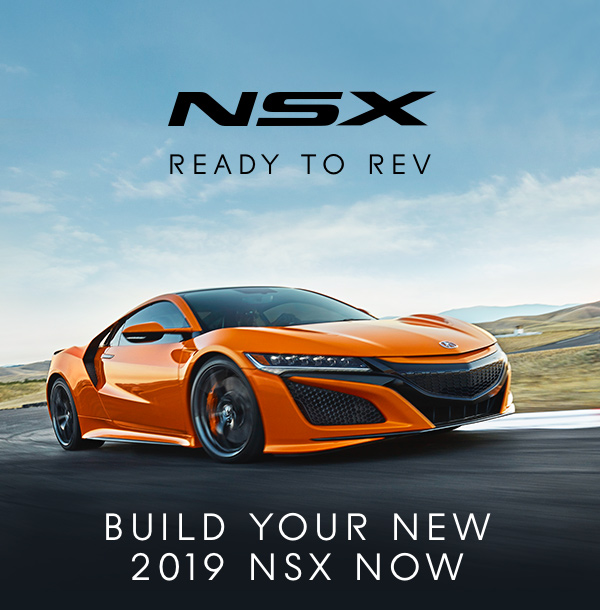
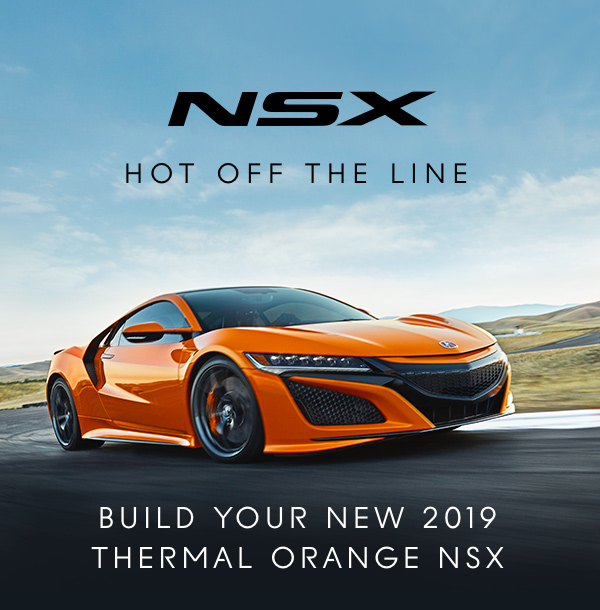
NSX #2 Email complete.

Changed region(s): [[0.15, 0.8098, 0.84, 0.9656], [0.51, 0.2492, 0.78, 0.3115], [0.21, 0.2492, 0.48, 0.3115]]

diff --git a/review.web/Content/Review/2019-nsx-02_assets.html b/review.web/Content/Review/2019-nsx-02_assets.html
@@ -4,7 +4,7 @@
     <meta http-equiv="Content-Type" content="text/html; charset=UTF-8"/>
     <meta name="viewport" content="width=device-width, maximum-scale=1, minimum-scale=1, user-scalable=no" />
     <meta name="x-apple-disable-message-reformatting" />
-    <title></title>
+    <title>Get Yours Hot: The New Acura NSX Is Here.</title>
     <style type="text/css">
       .ReadMsgBody{ width: 100%;}
       .ExternalClass {width: 100%;}
@@ -111,7 +111,7 @@
     <![endif]-->
   </head>
 <body bgcolor="#f2f2f2" style="padding:0;margin:0;-webkit-text-size-adjust:none; background-color:#f2f2f2;">
-<div style="display:none;visibility:hidden !important;mso-hide:all;font-size:1px;color:#ffffff;line-height:1px;max-height:0px;max-width:0px;opacity:0;overflow:hidden !important;"> </div>
+<div style="display:none;visibility:hidden !important;mso-hide:all;font-size:1px;color:#ffffff;line-height:1px;max-height:0px;max-width:0px;opacity:0;overflow:hidden !important;">The 2019 NSX is available for order in new Thermal Orange. </div>
 
 <table width="100%" cellpadding="0" cellspacing="0" border="0" align="center" bgcolor="#f2f2f2" style="min-width:600px !important;">
   <tr><td align="center" valign="top">
@@ -125,7 +125,7 @@
               <a target="_blank" href="https://www.acura.com/?SP_RID=%%RECIPIENT_ID%%&SP_MID=%%MAILING_ID%%&PROGRAMID=%%PROGID%%&CAMPAIGNCODE=%%CAMPAIGNCODE%%&OFFERCODE=%%OFFERCODE%%&CELLCODE=%%CELL%%&PID=%%PID%%&LINKNAME=%%LINK_NAME%%&CID=%%CID%%" style="margin:0;padding:0; border:none;text-decoration:none;text-align:center;font-size:36px;color:#ffffff;display:block;"><img style="margin:0 auto;padding:0;border:none !important;outline:none !important;display:block;text-align:center;color:white;background-color:black; font-family:'HelveticaNeue', 'Helvetica Neue', 'Helvetica Neue', Helvetica, Arial, 'Lucida Grande', sans-serif;line-height:80px; max-width: 600px; width: 100%;" alt="ACURA | " width="301" height="85" src="2019-nsx-02_assets/header-acura-logo-white.png" /></a>
             </td>
             <td width="299">
-              <a target="_blank" href="https://nsx.acura.com/explore/nsx/?SP_RID=%%RECIPIENT_ID%%&SP_MID=%%MAILING_ID%%&PROGRAMID=%%PROGID%%&CAMPAIGNCODE=%%CAMPAIGNCODE%%&OFFERCODE=%%OFFERCODE%%&CELLCODE=%%CELL%%&PID=%%PID%%&LINKNAME=%%LINK_NAME%%&CID=%%CID%%" style="margin:0;padding:0; border:none;text-decoration:none;text-align:center;font-size:36px;color:#ffffff;display:block;"><img style="margin:0 auto;padding:0;border:none !important;outline:none !important;display:block;text-align:center;color:white;background-color:black; font-family:'HelveticaNeue', 'Helvetica Neue', 'Helvetica Neue', Helvetica, Arial, 'Lucida Grande', sans-serif;line-height:80px; max-width: 600px; width: 100%;" alt="NSX " width="299" height="85" src="2019-nsx-02_assets/header-nsx-logo.png" /></a>
+              <a target="_blank" href="https://nsx.acura.com/explore/nsx?SP_RID=%%RECIPIENT_ID%%&SP_MID=%%MAILING_ID%%&PROGRAMID=%%PROGID%%&CAMPAIGNCODE=%%CAMPAIGNCODE%%&OFFERCODE=%%OFFERCODE%%&CELLCODE=%%CELL%%&PID=%%PID%%&LINKNAME=%%LINK_NAME%%&CID=%%CID%%" style="margin:0;padding:0; border:none;text-decoration:none;text-align:center;font-size:36px;color:#ffffff;display:block;"><img style="margin:0 auto;padding:0;border:none !important;outline:none !important;display:block;text-align:center;color:white;background-color:black; font-family:'HelveticaNeue', 'Helvetica Neue', 'Helvetica Neue', Helvetica, Arial, 'Lucida Grande', sans-serif;line-height:80px; max-width: 600px; width: 100%;" alt="NSX " width="299" height="85" src="2019-nsx-02_assets/header-nsx-logo.png" /></a>
             </td>
 
           </tr>
@@ -137,7 +137,7 @@
       <tr bgcolor="#12191F"><td valign="top" align="center">
         <table width="600" border="0" cellpadding="0" cellspacing="0" align="center">
           <tr><td>
-            <a style="margin:0;padding:0; border:none;text-decoration:none;text-align:center;" href="https://nsx.acura.com/explore/nsx/?SP_RID=%%RECIPIENT_ID%%&SP_MID=%%MAILING_ID%%&PROGRAMID=%%PROGID%%&CAMPAIGNCODE=%%CAMPAIGNCODE%%&OFFERCODE=%%OFFERCODE%%&CELLCODE=%%CELL%%&PID=%%PID%%&LINKNAME=%%LINK_NAME%%&CID=%%CID%%?SP_RID=%%RECIPIENT_ID%%&SP_MID=%%MAILING_ID%%&PROGRAMID=%%PROGID%%&CAMPAIGNCODE=%%CAMPAIGNCODE%%&OFFERCODE=%%OFFERCODE%%&CELLCODE=%%CELL%%&PID=%%PID%%&LINKNAME=%%LINK_NAME%%" target="_blank"><img style="margin:0 auto;padding:0;border:none !important;outline:none !important;display:block;text-align:center; font-family:Helvetica, Arial, 'Lucida Grande', sans-serif; color:white; font-size:40px; max-width: 600px;" width="600" height="610" alt="NSX - READY TO REV - BUILD YOUR NEW 2019 NSX NOW" src="2019-nsx-02_assets/2019-nsx-ready-to-rev.jpg" /></a>
+            <a style="margin:0;padding:0; border:none;text-decoration:none;text-align:center;" href="https://nsx.acura.com/explore/nsx?SP_RID=%%RECIPIENT_ID%%&SP_MID=%%MAILING_ID%%&PROGRAMID=%%PROGID%%&CAMPAIGNCODE=%%CAMPAIGNCODE%%&OFFERCODE=%%OFFERCODE%%&CELLCODE=%%CELL%%&PID=%%PID%%&LINKNAME=%%LINK_NAME%%&CID=%%CID%%" target="_blank"><img style="margin:0 auto;padding:0;border:none !important;outline:none !important;display:block;text-align:center; font-family:Helvetica, Arial, 'Lucida Grande', sans-serif; color:white; font-size:40px; max-width: 600px;" width="600" height="610" alt="NSX - HOT OFF THE LINE - BUILD YOUR NEW 2019 THERMAL ORANGE NSX" src="2019-nsx-02_assets/2019-nsx-ready-to-rev.jpg" /></a>
           </td></tr>
 
             <!-- copy -->
@@ -169,7 +169,7 @@
 
                                                           <tr>
                                                               <td valign="top" align="center" style="color:#000000 !important; vertical-align:middle;padding:16px 30px;border-width:2px;border-style:solid;border-color:#e82c2a;background-color:#ffffff;font-family:Helvetica, Arial, 'Lucida Grande', sans-serif;font-size:16px;text-align:center;">
-                                                                  <a class="acura-button-inner" href="https://www.acura.com/NSX?SP_RID=%%RECIPIENT_ID%%&SP_MID=%%MAILING_ID%%&PROGRAMID=%%PROGID%%&CAMPAIGNCODE=%%CAMPAIGNCODE%%&OFFERCODE=%%OFFERCODE%%&CELLCODE=%%CELL%%&PID=%%PID%%&LINKNAME=%%LINK_NAME%%" target="_blank" style="color:#000000 !important; text-decoration:none;border:none;font-weight:bold !important;display:inline-block;font-family:'HelveticaNeue-Bold', 'Helvetica Neue Bold', 'Helvetica Neue', Helvetica, Arial, 'Lucida Grande', sans-serif !important;font-size:16px;text-align:center; display: block;" align="center">EXPLORE THE 2019 NSX</a>
+                                                                  <a class="acura-button-inner" href="https://nsx.acura.com/explore/nsx?SP_RID=%%RECIPIENT_ID%%&SP_MID=%%MAILING_ID%%&PROGRAMID=%%PROGID%%&CAMPAIGNCODE=%%CAMPAIGNCODE%%&OFFERCODE=%%OFFERCODE%%&CELLCODE=%%CELL%%&PID=%%PID%%&LINKNAME=%%LINK_NAME%%&CID=%%CID%%" target="_blank" style="color:#000000 !important; text-decoration:none;border:none;font-weight:bold !important;display:inline-block;font-family:'HelveticaNeue-Bold', 'Helvetica Neue Bold', 'Helvetica Neue', Helvetica, Arial, 'Lucida Grande', sans-serif !important;font-size:16px;text-align:center; display: block;" align="center">EXPLORE THE 2019 NSX</a>
                                                               </td>
                                                           </tr>
 
@@ -196,7 +196,7 @@
                                         <tr>
                                           <td style="vertical-align:middle;height:34px;text-align:left;" valign="middle" align="left" height="34">
                                             <div class="acura-button-arrow-text" style="color:#FFFFFF;text-align:left;font-family:Helvetica, Arial, 'Lucida Grande', sans-serif;font-weight:bold;line-height:15px;text-decoration:none;">
-                                              <a class="acura-button-inner-white" href="https://www.acura.com/build-price/NSX?modelyear=2019&SP_RID=%%RECIPIENT_ID%%&SP_MID=%%MAILING_ID%%&PROGRAMID=%%PROGID%%&CAMPAIGNCODE=%%CAMPAIGNCODE%%&OFFERCODE=%%OFFERCODE%%&CELLCODE=%%CELL%%&PID=%%PID%%&LINKNAME=%%LINK_NAME%%" target="_blank" style="color:#FFFFFF !important; text-decoration:none;border:none;font-weight:bold !important;display:inline-block;font-family:'HelveticaNeue-Bold', 'Helvetica Neue Bold', 'Helvetica Neue', Helvetica, Arial, 'Lucida Grande', sans-serif;font-size:16px;text-align:center;" align="center">BUILD YOUR NSX</a>
+                                              <a class="acura-button-inner-white" href="https://nsx.acura.com/build/?SP_RID=%%RECIPIENT_ID%%&SP_MID=%%MAILING_ID%%&PROGRAMID=%%PROGID%%&CAMPAIGNCODE=%%CAMPAIGNCODE%%&OFFERCODE=%%OFFERCODE%%&CELLCODE=%%CELL%%&PID=%%PID%%&LINKNAME=%%LINK_NAME%%&CID=%%CID%%" target="_blank" style="color:#FFFFFF !important; text-decoration:none;border:none;font-weight:bold !important;display:inline-block;font-family:'HelveticaNeue-Bold', 'Helvetica Neue Bold', 'Helvetica Neue', Helvetica, Arial, 'Lucida Grande', sans-serif;font-size:16px;text-align:center;" align="center">BUILD YOUR NSX</a>
                                             </div>
                                           </td>
                                           <td style="vertical-align:top;width:34px;height:34px;" valign="top" height="34" width="50">
@@ -204,7 +204,7 @@
                                               <tbody>
                                                 <tr>
                                                   <td class="acura-button" style="vertical-align:middle;display:inline-block;line-height:1px;padding:0;border-width:2px;border-style:solid;border-color:#12191F;background-color:#12191F;font-family:'Helvetica Neue', Helvetica, Arial, 'Lucida Grande', sans-serif;font-size:16px;text-align:left;color:#000000;" valign="middle" align="center">
-                                                    <a class="acura-button-inner" href="https://www.acura.com/build-price/NSX?modelyear=2019&SP_RID=%%RECIPIENT_ID%%&SP_MID=%%MAILING_ID%%&PROGRAMID=%%PROGID%%&CAMPAIGNCODE=%%CAMPAIGNCODE%%&OFFERCODE=%%OFFERCODE%%&CELLCODE=%%CELL%%&PID=%%PID%%&LINKNAME=%%LINK_NAME%%" target="_blank" style="text-decoration:none;line-height:16px;font-weight:bold;display:inline-block;font-family:'HelveticaNeue-Bold', 'Helvetica Neue Bold', 'Helvetica Neue', Helvetica, Arial, 'Lucida Grande', sans-serif;font-size:16px;text-align:center;color:#FFFFFF;" align="center">
+                                                    <a class="acura-button-inner" href="https://nsx.acura.com/build/?SP_RID=%%RECIPIENT_ID%%&SP_MID=%%MAILING_ID%%&PROGRAMID=%%PROGID%%&CAMPAIGNCODE=%%CAMPAIGNCODE%%&OFFERCODE=%%OFFERCODE%%&CELLCODE=%%CELL%%&PID=%%PID%%&LINKNAME=%%LINK_NAME%%&CID=%%CID%%" target="_blank" style="text-decoration:none;line-height:16px;font-weight:bold;display:inline-block;font-family:'HelveticaNeue-Bold', 'Helvetica Neue Bold', 'Helvetica Neue', Helvetica, Arial, 'Lucida Grande', sans-serif;font-size:16px;text-align:center;color:#FFFFFF;" align="center">
                                                       <img style="margin:0 auto;padding:0;border:0px none;outline:0px none;display:block;text-align:center;vertical-align:bottom;line-height:30px;width:30px;height:30px;" height="30" width="30" alt="" src="2019-nsx-02_assets/dark-blue-arrow.png">
                                                     </a>
                                                   </td>
@@ -237,7 +237,7 @@
       <tr bgcolor="000000"><td>
         <table class="content-container" style="width:100%;" width="100%" cellpadding="0" cellspacing="0" border="0">
             <tr><td valign="middle">
-              <img style="margin:0; margin-bottom:-17px;padding:0;border:none !important;outline:none !important;display:block;text-align:center;color:black;width:100%;max-width: 600px;font-family:Helvetica, Arial;font-size:22px;" width="600" height="560" alt="2019 NSX Thermal Orange" src="2019-nsx-02_assets/2019-nsx-exteriorrear.jpg" />
+              <a class="acura-button-inner" href="https://nsx.acura.com/explore/nsx/?SP_RID=%%RECIPIENT_ID%%&SP_MID=%%MAILING_ID%%&PROGRAMID=%%PROGID%%&CAMPAIGNCODE=%%CAMPAIGNCODE%%&OFFERCODE=%%OFFERCODE%%&CELLCODE=%%CELL%%&PID=%%PID%%&LINKNAME=%%LINK_NAME%%&CID=%%CID%%" target="_blank" style="color:#000000 !important; text-decoration:none;border:none;font-weight:bold !important;display:inline-block;font-family:'HelveticaNeue-Bold', 'Helvetica Neue Bold', 'Helvetica Neue', Helvetica, Arial, 'Lucida Grande', sans-serif !important;font-size:16px;text-align:center; display: block;" align="center"><img style="margin:0; margin-bottom:-17px;padding:0;border:none !important;outline:none !important;display:block;text-align:center;color:black;width:100%;max-width: 600px;font-family:Helvetica, Arial;font-size:22px;" width="600" height="560" alt="2019 NSX Thermal Orange" src="2019-nsx-02_assets/2019-nsx-exteriorrear.jpg" /></a>
             </td></tr>
         </table>
       </td></tr>
@@ -293,7 +293,7 @@
       <tr><td>
         <table class="content-container" style="width:100%;" width="100%" cellpadding="0" cellspacing="0" border="0">
             <tr><td valign="middle">
-              <img width="600" height="406" alt="2019 NSX Front left panel view of Thermal Orange on exterior and calipers" src="2019-nsx-02_assets/electrifying-perform-image.jpg" style="margin:0 auto;padding:0;border:none !important;outline:none !important;display:block;text-align:center;color:black;width:100%;max-width: 600px;font-family:Helvetica, Arial;font-size:22px;" />
+              <a class="acura-button-inner" href="https://nsx.acura.com/explore/nsx/?SP_RID=%%RECIPIENT_ID%%&SP_MID=%%MAILING_ID%%&PROGRAMID=%%PROGID%%&CAMPAIGNCODE=%%CAMPAIGNCODE%%&OFFERCODE=%%OFFERCODE%%&CELLCODE=%%CELL%%&PID=%%PID%%&LINKNAME=%%LINK_NAME%%&CID=%%CID%%" target="_blank" style="color:#000000 !important; text-decoration:none;border:none;font-weight:bold !important;display:inline-block;font-family:'HelveticaNeue-Bold', 'Helvetica Neue Bold', 'Helvetica Neue', Helvetica, Arial, 'Lucida Grande', sans-serif !important;font-size:16px;text-align:center; display: block;" align="center"><img width="600" height="406" alt="2019 NSX Front left panel view of Thermal Orange on exterior and calipers" src="2019-nsx-02_assets/electrifying-perform-image.jpg" style="margin:0 auto;padding:0;border:none !important;outline:none !important;display:block;text-align:center;color:black;width:100%;max-width: 600px;font-family:Helvetica, Arial;font-size:22px;" /></a>
             </td></tr>
         </table>
       </td></tr>
@@ -307,43 +307,19 @@
             <td width="520" class="content-container-cell" align="left" style="font-family:Helvetica, Arial, 'Lucida Grande', sans-serif; text-align: left;">
                <img style="margin:0;padding:0;border:none !important;outline:none !important;display:block;text-align:center;color:white;font-family:Helvetica, Arial;font-size:22px;" width="376" height="71" alt="Extraordinary Design" src="2019-nsx-02_assets/extraordinary-design-title.png" />
 
-               <img class="spacer col-space-content-container" style="margin:0;padding:0;border:none !important;outline:none !important;display:block;text-align:center;" src="2019-nsx-02_assets/spacer.png" height="35" width="1" />
+               <img class="spacer col-space-content-container" style="margin:0; margin-bottom:-15px;padding:0;border:none !important;outline:none !important;display:block;text-align:center;" src="2019-nsx-02_assets/spacer.png" height="35" width="1" />
 
-               <img class="outlook__spacer" style="margin:0 auto;padding:0;border:none !important;outline:none !important;display:block;text-align:center;" src="2019-nsx-02_assets/spacer.png" height="3" width="1">
+               <br />
 
                <div class="content acura-body-copy" style="line-height:30px;font-family:'Helvetica Neue', Helvetica, Arial, 'Lucida Grande', sans-serif !important;font-size:16px;text-align:left;color:#FFFFFF;" align="left">A case study in craftsmanship, every detail on the 2019 NSX has been carefully considered to complement its performance prowess.</div>
 
-                <img class="spacer col-space-content-container" style="margin:0 auto;padding:0;border:none !important;outline:none !important;display:block;text-align:center;" src="2019-nsx-02_assets/spacer.png" height="30" width="1">
+                <img class="spacer col-space-content-container" style="margin:0;padding:0;border:none !important;outline:none !important;display:block;text-align:center;" src="2019-nsx-02_assets/spacer.png" height="30" width="1">
             </td>
             <td width="40"><img class="spacer col-space-content-container" style="margin:0 auto;padding:0;border:none !important;outline:none !important;display:block;text-align:center;" src="2019-nsx-02_assets/spacer.png" height="1" width="40">
             </td>
           </tr>
         </table>
       </td></tr>
-
-      <!-- copy -->
-      <tr bgcolor="#000000"><td>
-        <table class="content-container" width="600" cellpadding="0" cellspacing="0" border="0" style="min-width:600px;">
-          <tbody><tr>
-            <td width="40"><img class="spacer col-space-content-container" style="margin:0 auto;padding:0;border:none !important;outline:none !important;display:block;text-align:center;" src="2019-nsx-02_assets/spacer.png" height="1" width="40">
-            </td>
-            <td width="520" class="content-container-cell" style="font-family:Helvetica, Arial, 'Lucida Grande', sans-serif;">
-              <table class="content-container" width="520" cellpadding="0" cellspacing="0" border="0">
-                <tbody>
-                  <tr>
-                    <td style="font-family:Helvetica, Arial, 'Lucida Grande', sans-serif;">
-                     
-                    </td>
-                  </tr>
-                </tbody>
-              </table>
-            </td>
-            <td width="40"><img class="spacer col-space-content-container" style="margin:0 auto;padding:0;border:none !important;outline:none !important;display:block;text-align:center;" src="2019-nsx-02_assets/spacer.png" height="1" width="40">
-            </td>
-          </tr></tbody>
-        </table>
-      </td></tr>
-
       <!-- image -->
       <tr bgcolor="#000000"><td>
         <table class="content-container" width="600" cellpadding="0" cellspacing="0" border="0" bgcolor="#000000" style="min-width:600px;">
@@ -351,35 +327,15 @@
             <td width="40"><img class="spacer col-space-content-container" style="margin:0 auto;padding:0;border:none !important;outline:none !important;display:block;text-align:center;" src="2019-nsx-02_assets/spacer.png" height="1" width="40">
             </td>
             <td width="540" class="content-container-cell" align="right" style="font-family:Helvetica, Arial, 'Lucida Grande', sans-serif; text-align: left;">
-               <img style="margin:0;padding:0;border:none !important;outline:none !important;display:block;text-align:right;color:black;font-family:Helvetica, Arial;font-size:22px;" width="560" height="280" alt="2019 NSX Thermal Orange" src="2019-nsx-02_assets/extraordinary-design-image.jpg" />
-               <img class="spacer col-space-content-container" style="margin:0; margin-bottom:-17px; padding:0;border:none !important;outline:none !important;display:block;text-align:center;" src="2019-nsx-02_assets/spacer.png" height="50" width="1">
+               <a class="acura-button-inner" href="https://nsx.acura.com/explore/nsx/?SP_RID=%%RECIPIENT_ID%%&SP_MID=%%MAILING_ID%%&PROGRAMID=%%PROGID%%&CAMPAIGNCODE=%%CAMPAIGNCODE%%&OFFERCODE=%%OFFERCODE%%&CELLCODE=%%CELL%%&PID=%%PID%%&LINKNAME=%%LINK_NAME%%&CID=%%CID%%" target="_blank" style="color:#000000 !important; text-decoration:none;border:none;font-weight:bold !important;display:inline-block;font-family:'HelveticaNeue-Bold', 'Helvetica Neue Bold', 'Helvetica Neue', Helvetica, Arial, 'Lucida Grande', sans-serif !important;font-size:16px;text-align:center; display: block;" align="center"><img style="margin:0;padding:0;border:none !important;outline:none !important;display:block;text-align:right;color:black;font-family:Helvetica, Arial;font-size:22px;" width="560" height="280" alt="2019 NSX Thermal Orange" src="2019-nsx-02_assets/extraordinary-design-image.jpg" /></a>
+
+               <img class="spacer col-space-content-container" style="margin:0; padding:0;border:none !important;outline:none !important;display:block;text-align:center;" src="2019-nsx-02_assets/spacer.png" height="35" width="1">
+
+               <div class="content acura-body-copy" style="line-height:30px;font-family:'Helvetica Neue', Helvetica, Arial, 'Lucida Grande', sans-serif !important;font-size:16px;text-align:left;color:#FFFFFF;" align="left">Purposeful details abound like the air vents hidden beneath the stylish rear spoiler that help reduce drag.</div>
+
+               <img class="spacer col-space-content-container" style="margin:0; margin-bottom:-13px !important;padding:0;border:none !important;outline:none !important;display:block;text-align:center;" src="2019-nsx-02_assets/spacer.png" height="43" width="1" />
             </td>
           </tr>
-        </table>
-      </td></tr>
-
-      <!-- copy -->
-      <tr bgcolor="#000000"><td>
-        <table class="content-container" width="600" cellpadding="0" cellspacing="0" border="0" style="min-width:600px;">
-          <tbody><tr>
-            <td width="40"><img class="spacer col-space-content-container" style="margin:0 auto;padding:0;border:none !important;outline:none !important;display:block;text-align:center;" src="2019-nsx-02_assets/spacer.png" height="1" width="40">
-            </td>
-            <td width="520" class="content-container-cell" style="font-family:Helvetica, Arial, 'Lucida Grande', sans-serif;">
-              <table class="content-container" width="520" cellpadding="0" cellspacing="0" border="0">
-                <tbody>
-                  <tr>
-                    <td style="font-family:Helvetica, Arial, 'Lucida Grande', sans-serif;">
-                     <div class="content acura-body-copy" style="line-height:30px;font-family:'Helvetica Neue', Helvetica, Arial, 'Lucida Grande', sans-serif !important;font-size:16px;text-align:left;color:#FFFFFF;" align="left">Purposeful details abound like the air vents hidden beneath the stylish rear spoiler that help reduce drag.</div>
-
-                     <img class="spacer col-space-content-container" style="margin:0; margin-bottom:-13 !important;padding:0;border:none !important;outline:none !important;display:block;text-align:center;" src="2019-nsx-02_assets/spacer.png" height="43" width="1" />
-                    </td>
-                  </tr>
-                </tbody>
-              </table>
-            </td>
-            <td width="40"><img class="spacer col-space-content-container" style="margin:0 auto;padding:0;border:none !important;outline:none !important;display:block;text-align:center;" src="2019-nsx-02_assets/spacer.png" height="1" width="40">
-            </td>
-          </tr></tbody>
         </table>
       </td></tr>
 
@@ -387,7 +343,7 @@
       <tr><td>
         <table class="content-container" style="width:100%;" width="100%" cellpadding="0" cellspacing="0" border="0">
             <tr><td valign="middle">
-              <img width="600" height="406" alt="2019 NSX Reare left panel view of Thermal Orange on exterior and calipers" src="2019-nsx-02_assets/extraordinary-design-image-02.jpg" style="margin:0 auto;padding:0;border:none !important;outline:none !important;display:block;text-align:center;color:black;width:100%;max-width: 600px;font-family:Helvetica, Arial;font-size:22px;" />
+              <a class="acura-button-inner" href="https://nsx.acura.com/explore/nsx/?SP_RID=%%RECIPIENT_ID%%&SP_MID=%%MAILING_ID%%&PROGRAMID=%%PROGID%%&CAMPAIGNCODE=%%CAMPAIGNCODE%%&OFFERCODE=%%OFFERCODE%%&CELLCODE=%%CELL%%&PID=%%PID%%&LINKNAME=%%LINK_NAME%%&CID=%%CID%%" target="_blank" style="color:#000000 !important; text-decoration:none;border:none;font-weight:bold !important;display:inline-block;font-family:'HelveticaNeue-Bold', 'Helvetica Neue Bold', 'Helvetica Neue', Helvetica, Arial, 'Lucida Grande', sans-serif !important;font-size:16px;text-align:center; display: block;" align="center"><img width="600" height="406" alt="2019 NSX Reare left panel view of Thermal Orange on exterior and calipers" src="2019-nsx-02_assets/extraordinary-design-image-02.jpg" style="margin:0 auto;padding:0;border:none !important;outline:none !important;display:block;text-align:center;color:black;width:100%;max-width: 600px;font-family:Helvetica, Arial;font-size:22px;" /></a>
             </td></tr>
         </table>
       </td></tr>
@@ -447,7 +403,7 @@
             <td width="40"><img class="spacer col-space-content-container" style="margin:0 auto;padding:0;border:none !important;outline:none !important;display:block;text-align:center;" src="2019-nsx-02_assets/spacer.png" height="1" width="40">
             </td>
             <td width="540" class="content-container-cell" align="right" style="font-family:Helvetica, Arial, 'Lucida Grande', sans-serif; text-align: left;">
-               <img style="margin:0;padding:0;border:none !important;outline:none !important;display:block;text-align:right;color:black;font-family:Helvetica, Arial;font-size:22px;" width="560" height="320" alt="2019 NSX Thermal Orange" src="2019-nsx-02_assets/total-control-instrumentCluster.jpg" />
+               <a class="acura-button-inner" href="https://nsx.acura.com/explore/nsx/?SP_RID=%%RECIPIENT_ID%%&SP_MID=%%MAILING_ID%%&PROGRAMID=%%PROGID%%&CAMPAIGNCODE=%%CAMPAIGNCODE%%&OFFERCODE=%%OFFERCODE%%&CELLCODE=%%CELL%%&PID=%%PID%%&LINKNAME=%%LINK_NAME%%&CID=%%CID%%" target="_blank" style="color:#000000 !important; text-decoration:none;border:none;font-weight:bold !important;display:inline-block;font-family:'HelveticaNeue-Bold', 'Helvetica Neue Bold', 'Helvetica Neue', Helvetica, Arial, 'Lucida Grande', sans-serif !important;font-size:16px;text-align:center; display: block;" align="center"><img style="margin:0;padding:0;border:none !important;outline:none !important;display:block;text-align:right;color:black;font-family:Helvetica, Arial;font-size:22px;" width="560" height="320" alt="2019 NSX dashboard" src="2019-nsx-02_assets/total-control-instrumentCluster.jpg" /></a>
             </td>
           </tr>
         </table>
@@ -489,7 +445,7 @@
             <td width="40"><img class="spacer col-space-content-container" style="margin:0 auto;padding:0;border:none !important;outline:none !important;display:block;text-align:center;" src="2019-nsx-02_assets/spacer.png" height="1" width="40">
             </td>
             <td width="540" class="content-container-cell" align="right" style="font-family:Helvetica, Arial, 'Lucida Grande', sans-serif; text-align: left;">
-               <img style="margin:0;padding:0;border:none !important;outline:none !important;display:block;text-align:right;color:black;font-family:Helvetica, Arial;font-size:22px;" width="560" height="320" alt="2019 NSX Alcantara interior" src="2019-nsx-02_assets/total-control-interior.jpg" />
+               <a class="acura-button-inner" href="https://nsx.acura.com/explore/nsx/?SP_RID=%%RECIPIENT_ID%%&SP_MID=%%MAILING_ID%%&PROGRAMID=%%PROGID%%&CAMPAIGNCODE=%%CAMPAIGNCODE%%&OFFERCODE=%%OFFERCODE%%&CELLCODE=%%CELL%%&PID=%%PID%%&LINKNAME=%%LINK_NAME%%&CID=%%CID%%" target="_blank" style="color:#000000 !important; text-decoration:none;border:none;font-weight:bold !important;display:inline-block;font-family:'HelveticaNeue-Bold', 'Helvetica Neue Bold', 'Helvetica Neue', Helvetica, Arial, 'Lucida Grande', sans-serif !important;font-size:16px;text-align:center; display: block;" align="center"><img style="margin:0;padding:0;border:none !important;outline:none !important;display:block;text-align:right;color:black;font-family:Helvetica, Arial;font-size:22px;" width="560" height="320" alt="2019 NSX Alcantara interior" src="2019-nsx-02_assets/total-control-interior.jpg" /></a>
             </td>
           </tr>
         </table>
@@ -498,13 +454,12 @@
       <!-- space -->
       <tr><td height="55">&nbsp;</td></tr>
 
-
       <!-- American Made -->
       <tr><td>
         <table class="content-container" width="600" cellpadding="0" cellspacing="0" border="0" style="min-width:600px;">
           <tr>
             <td width="600" class="content-container-cell" align="right" style="font-family:Helvetica, Arial, 'Lucida Grande', sans-serif; text-align: left;">
-               <img style="margin:0;padding:0;border:none !important;outline:none !important;display:block;text-align:right;color:black;font-family:Helvetica, Arial;font-size:22px;" width="600" height="538" alt="American Made" src="2019-nsx-02_assets/2019-nsx-made-in-america.jpg" />
+               <img style="margin:0; margin-bottom:-17px;padding:0;border:none !important;outline:none !important;display:block;text-align:right;color:black;font-family:Helvetica, Arial;font-size:22px;" width="600" height="538" alt="American Made" src="2019-nsx-02_assets/2019-nsx-made-in-america.jpg" />
             </td>
           </tr>
         </table>
@@ -519,14 +474,14 @@
                   <table width="520" cellpadding="0" cellspacing="0" border="0" align="center">
                       <tr>
                         <td class="content-container-cell" style="font-family:Helvetica, Arial, 'Lucida Grande', sans-serif;">
-                          <img class="spacer line-space-large" style="margin:0;padding:0;border:none !important;outline:none !important;display:block;text-align:center;" src="2019-nsx-02_assets/spacer.png" height="15" />
+                          <img class="spacer line-space-large" style="margin:0;padding:0;border:none !important;outline:none !important;display:block;text-align:center;" src="2019-nsx-02_assets/spacer.png" height="32" />
 
                           <div class="content acura-body-copy" style="line-height:30px;font-family:'Helvetica Neue', Helvetica, Arial, 'Lucida Grande', sans-serif !important;font-size:16px;text-align:center;color: #FFFFFF;" align="center">
                             The Acura NSX is the only supercar designed, developed and manufactured in the United States.
 
                             <img class="spacer line-space-large" style="margin:0;padding:0;border:none !important;outline:none !important;display:block;text-align:center;" src="2019-nsx-02_assets/spacer.png" height="15" />
 
-                            Each new vehicle is painstakingly crafted at a state-of-the-art facility in Ohio, under the direction of top engineers and production associates.1
+                            Each new vehicle is painstakingly crafted at a state-of-the-art facility in Ohio, under the direction of top engineers and production associates.<sup style="font-size:11px; line-height:1px;">1</sup>
                           </div>
                           <img class="spacer line-space-large" style="margin:0;padding:0;border:none !important;outline:none !important;display:block;text-align:center;" src="2019-nsx-02_assets/spacer.png" height="40" />
 
@@ -543,7 +498,7 @@
                                                 <table style="margin: 0 auto !important; text-align:center;height:34px;text-decoration:none;display:table;" width="100%" cellpadding="0" cellspacing="0" border="0" align="center">
                                                         <tr>
                                                             <td valign="top" align="center" style="color:#000000 !important; vertical-align:middle;padding:16px 30px;border-width:2px;border-style:solid;border-color:#e82c2a;background-color:#ffffff;font-family:Helvetica, Arial, 'Lucida Grande', sans-serif;font-size:16px;text-align:center;">
-                                                                <a class="acura-button-inner" href="https://www.acura.com/NSX?SP_RID=%%RECIPIENT_ID%%&SP_MID=%%MAILING_ID%%&PROGRAMID=%%PROGID%%&CAMPAIGNCODE=%%CAMPAIGNCODE%%&OFFERCODE=%%OFFERCODE%%&CELLCODE=%%CELL%%&PID=%%PID%%&LINKNAME=%%LINK_NAME%%" target="_blank" style="color:#000000 !important; text-decoration:none;border:none;font-weight:bold !important;display:inline-block;font-family:'HelveticaNeue-Bold', 'Helvetica Neue Bold', 'Helvetica Neue', Helvetica, Arial, 'Lucida Grande', sans-serif !important;font-size:16px;text-align:center; display: block;" align="center">EXPLORE THE 2019 NSX</a>
+                                                                <a class="acura-button-inner" href="https://nsx.acura.com/explore/nsx/?SP_RID=%%RECIPIENT_ID%%&SP_MID=%%MAILING_ID%%&PROGRAMID=%%PROGID%%&CAMPAIGNCODE=%%CAMPAIGNCODE%%&OFFERCODE=%%OFFERCODE%%&CELLCODE=%%CELL%%&PID=%%PID%%&LINKNAME=%%LINK_NAME%%&CID=%%CID%%?SP_RID=%%RECIPIENT_ID%%&SP_MID=%%MAILING_ID%%&PROGRAMID=%%PROGID%%&CAMPAIGNCODE=%%CAMPAIGNCODE%%&OFFERCODE=%%OFFERCODE%%&CELLCODE=%%CELL%%&PID=%%PID%%&LINKNAME=%%LINK_NAME%%" target="_blank" style="color:#000000 !important; text-decoration:none;border:none;font-weight:bold !important;display:inline-block;font-family:'HelveticaNeue-Bold', 'Helvetica Neue Bold', 'Helvetica Neue', Helvetica, Arial, 'Lucida Grande', sans-serif !important;font-size:16px;text-align:center; display: block;" align="center">EXPLORE THE 2019 NSX</a>
                                                             </td>
                                                         </tr>
 
@@ -570,7 +525,7 @@
                                       <tr>
                                         <td style="vertical-align:middle;height:34px;text-align:left;" valign="middle" align="left" height="34">
                                           <div class="acura-button-arrow-text" style="color:#FFFFFF;text-align:left;font-family:Helvetica, Arial, 'Lucida Grande', sans-serif;font-weight:bold;line-height:15px;text-decoration:none;">
-                                            <a class="acura-button-inner-white" href="https://www.acura.com/build-price/NSX?modelyear=2019&SP_RID=%%RECIPIENT_ID%%&SP_MID=%%MAILING_ID%%&PROGRAMID=%%PROGID%%&CAMPAIGNCODE=%%CAMPAIGNCODE%%&OFFERCODE=%%OFFERCODE%%&CELLCODE=%%CELL%%&PID=%%PID%%&LINKNAME=%%LINK_NAME%%" target="_blank" style="color:#FFFFFF !important; text-decoration:none;border:none;font-weight:bold !important;display:inline-block;font-family:'HelveticaNeue-Bold', 'Helvetica Neue Bold', 'Helvetica Neue', Helvetica, Arial, 'Lucida Grande', sans-serif;font-size:16px;text-align:center;" align="center">BUILD YOUR NSX</a>
+                                            <a class="acura-button-inner-white" href="https://nsx.acura.com/build/?SP_RID=%%RECIPIENT_ID%%&SP_MID=%%MAILING_ID%%&PROGRAMID=%%PROGID%%&CAMPAIGNCODE=%%CAMPAIGNCODE%%&OFFERCODE=%%OFFERCODE%%&CELLCODE=%%CELL%%&PID=%%PID%%&LINKNAME=%%LINK_NAME%%&CID=%%CID%%" target="_blank" style="color:#FFFFFF !important; text-decoration:none;border:none;font-weight:bold !important;display:inline-block;font-family:'HelveticaNeue-Bold', 'Helvetica Neue Bold', 'Helvetica Neue', Helvetica, Arial, 'Lucida Grande', sans-serif;font-size:16px;text-align:center;" align="center">BUILD YOUR NSX</a>
                                           </div>
                                         </td>
                                         <td style="vertical-align:top;width:34px;height:34px;" valign="top" height="34" width="50">
@@ -578,7 +533,7 @@
                                             <tbody>
                                               <tr>
                                                 <td class="acura-button" style="vertical-align:middle;display:inline-block;line-height:1px;padding:0;border-width:2px;border-style:solid;border-color:#272C37;background-color:#12191F;font-family:'Helvetica Neue', Helvetica, Arial, 'Lucida Grande', sans-serif;font-size:16px;text-align:left;color:#000000;" valign="middle" align="center">
-                                                  <a class="acura-button-inner" href="https://www.acura.com/build-price/NSX?modelyear=2019&SP_RID=%%RECIPIENT_ID%%&SP_MID=%%MAILING_ID%%&PROGRAMID=%%PROGID%%&CAMPAIGNCODE=%%CAMPAIGNCODE%%&OFFERCODE=%%OFFERCODE%%&CELLCODE=%%CELL%%&PID=%%PID%%&LINKNAME=%%LINK_NAME%%" target="_blank" style="text-decoration:none;line-height:16px;font-weight:bold;display:inline-block;font-family:'HelveticaNeue-Bold', 'Helvetica Neue Bold', 'Helvetica Neue', Helvetica, Arial, 'Lucida Grande', sans-serif;font-size:16px;text-align:center;color:#FFFFFF;" align="center">
+                                                  <a class="acura-button-inner" href="https://nsx.acura.com/build/?SP_RID=%%RECIPIENT_ID%%&SP_MID=%%MAILING_ID%%&PROGRAMID=%%PROGID%%&CAMPAIGNCODE=%%CAMPAIGNCODE%%&OFFERCODE=%%OFFERCODE%%&CELLCODE=%%CELL%%&PID=%%PID%%&LINKNAME=%%LINK_NAME%%&CID=%%CID%%" target="_blank" style="text-decoration:none;line-height:16px;font-weight:bold;display:inline-block;font-family:'HelveticaNeue-Bold', 'Helvetica Neue Bold', 'Helvetica Neue', Helvetica, Arial, 'Lucida Grande', sans-serif;font-size:16px;text-align:center;color:#FFFFFF;" align="center">
                                                     <img style="margin:0 auto;padding:0;border:0px none;outline:0px none;display:block;text-align:center;vertical-align:bottom;line-height:30px;width:30px;height:30px;" height="30" width="30" alt="" src="2019-nsx-02_assets/blue-arrow.png">
                                                   </a>
                                                 </td>
@@ -616,7 +571,7 @@
             </td>
             <td width="149" class="content-container-cell" style="text-align:center;" align="center">
               <div class="graphic-cta" style="text-align:center;">
-                <a target="_blank" href="https://www.acura.com/?SP_RID=%%RECIPIENT_ID%%&SP_MID=%%MAILING_ID%%&PROGRAMID=%%PROGID%%&CAMPAIGNCODE=%%CAMPAIGNCODE%%&OFFERCODE=%%OFFERCODE%%&CELLCODE=%%CELL%%&PID=%%PID%%&LINKNAME=%%LINK_NAME%%" style="margin:0;padding:0; border:none;text-decoration:none;text-align:center;font-size:36px;color:#000000;display:block;"><img style="margin:0 auto;padding:0;border:none !important;outline:none !important;display:block;text-align:center;font-size:20px;color:#ffffff;" alt="ACURA - PRECISION CRAFTED PERFORMANCE" width="149" height="98" src="2019-nsx-02_assets/acura-logo-white.png" /></a>
+                <a target="_blank" href="https://www.acura.com/?SP_RID=%%RECIPIENT_ID%%&SP_MID=%%MAILING_ID%%&PROGRAMID=%%PROGID%%&CAMPAIGNCODE=%%CAMPAIGNCODE%%&OFFERCODE=%%OFFERCODE%%&CELLCODE=%%CELL%%&PID=%%PID%%&LINKNAME=%%LINK_NAME%%&CID=%%CID%%" style="margin:0;padding:0; border:none;text-decoration:none;text-align:center;font-size:36px;color:#000000;display:block;"><img style="margin:0 auto;padding:0;border:none !important;outline:none !important;display:block;text-align:center;font-size:20px;color:#ffffff;" alt="ACURA - PRECISION CRAFTED PERFORMANCE" width="149" height="98" src="2019-nsx-02_assets/acura-logo-white.png" /></a>
               </div>
             </td>
             <td width="225.5"><img class="spacer col-space-content-container" style="margin:0 auto;padding:0;border:none !important;outline:none !important;display:block;text-align:center;" src="2019-nsx-02_assets/spacer.png" height="1" width="50" />
@@ -694,7 +649,7 @@
 </td>
 <td width="500" class="content-container-cell" style="font-family:Helvetica, Arial, 'Lucida Grande', sans-serif;vertical-align:middle;" valign="middle">
 <img class="spacer line-space-large" style="margin:0 auto;padding:0;border:none !important;outline:none !important;display:block;text-align:center;width:1px;" src="2019-nsx-02_assets/spacer.png" height="40" width="1" />
-<div class="content footer-small-print" style="line-height:24px;font-family:'Helvetica Neue', Helvetica, Arial, 'Lucida Grande', sans-serif !important;font-size:13px;text-align:left;color:#9b9b9b;">*CARGO VOLUME - Based on SAE J1100 cargo volume measurement standard plus floor space between first and second seats and front seats moved forward. This figure compares more accurately with most competitive measurements.
+<div class="content footer-small-print" style="line-height:24px;font-family:'Helvetica Neue', Helvetica, Arial, 'Lucida Grande', sans-serif !important;font-size:13px;text-align:left;color:#9b9b9b;"><sup>1</sup> The NSX is manufactured in America using domestic and globally sourced parts.
       <img class="spacer line-space-footer" style="margin:0 auto;padding:0;border:0px none;outline:0px none;display:block;text-align:center;vertical-align:bottom;width:1px;height:20px;" src="2019-nsx-02_assets/spacer.png" height="20" width="1">Please do not reply to this email. You have received this email because you signed up to receive information from Acura. To opt out of future promotional email communications and to update your preferences, <a class="footer-small-print-link" href="https://www.acura.com/VB/PreferenceCenter/UpdatePreference.aspx?emailid=%%LinkURL6%%&fullsite=true&Businessentity=Acura" style="color:#9b9b9b;text-align:left;font-size:13px;font-family:'Helvetica Neue', Helvetica, Arial, 'Lucida Grande', sans-serif !important;line-height:24px;">please click here</a>. If you are using a mobile device and are unable to opt out, please open this email on a desktop computer and click on the opt-out link from there. All information contained herein applies to U.S. vehicles only.
 </div><img class="spacer line-space-footer" style="margin:0 auto;padding:0;border:0px none;outline:0px none;display:block;text-align:center;vertical-align:bottom;width:1px;height:20px;" src="2019-nsx-02_assets/spacer.png" height="20" width="1">
 <div class="content footer-small-print" style="line-height:24px;font-family:'Helvetica Neue', Helvetica, Arial, 'Lucida Grande', sans-serif !important;font-size:13px;text-align:left;color:#9b9b9b;">Acura, 1919 Torrance Blvd., Torrance, CA 90501
